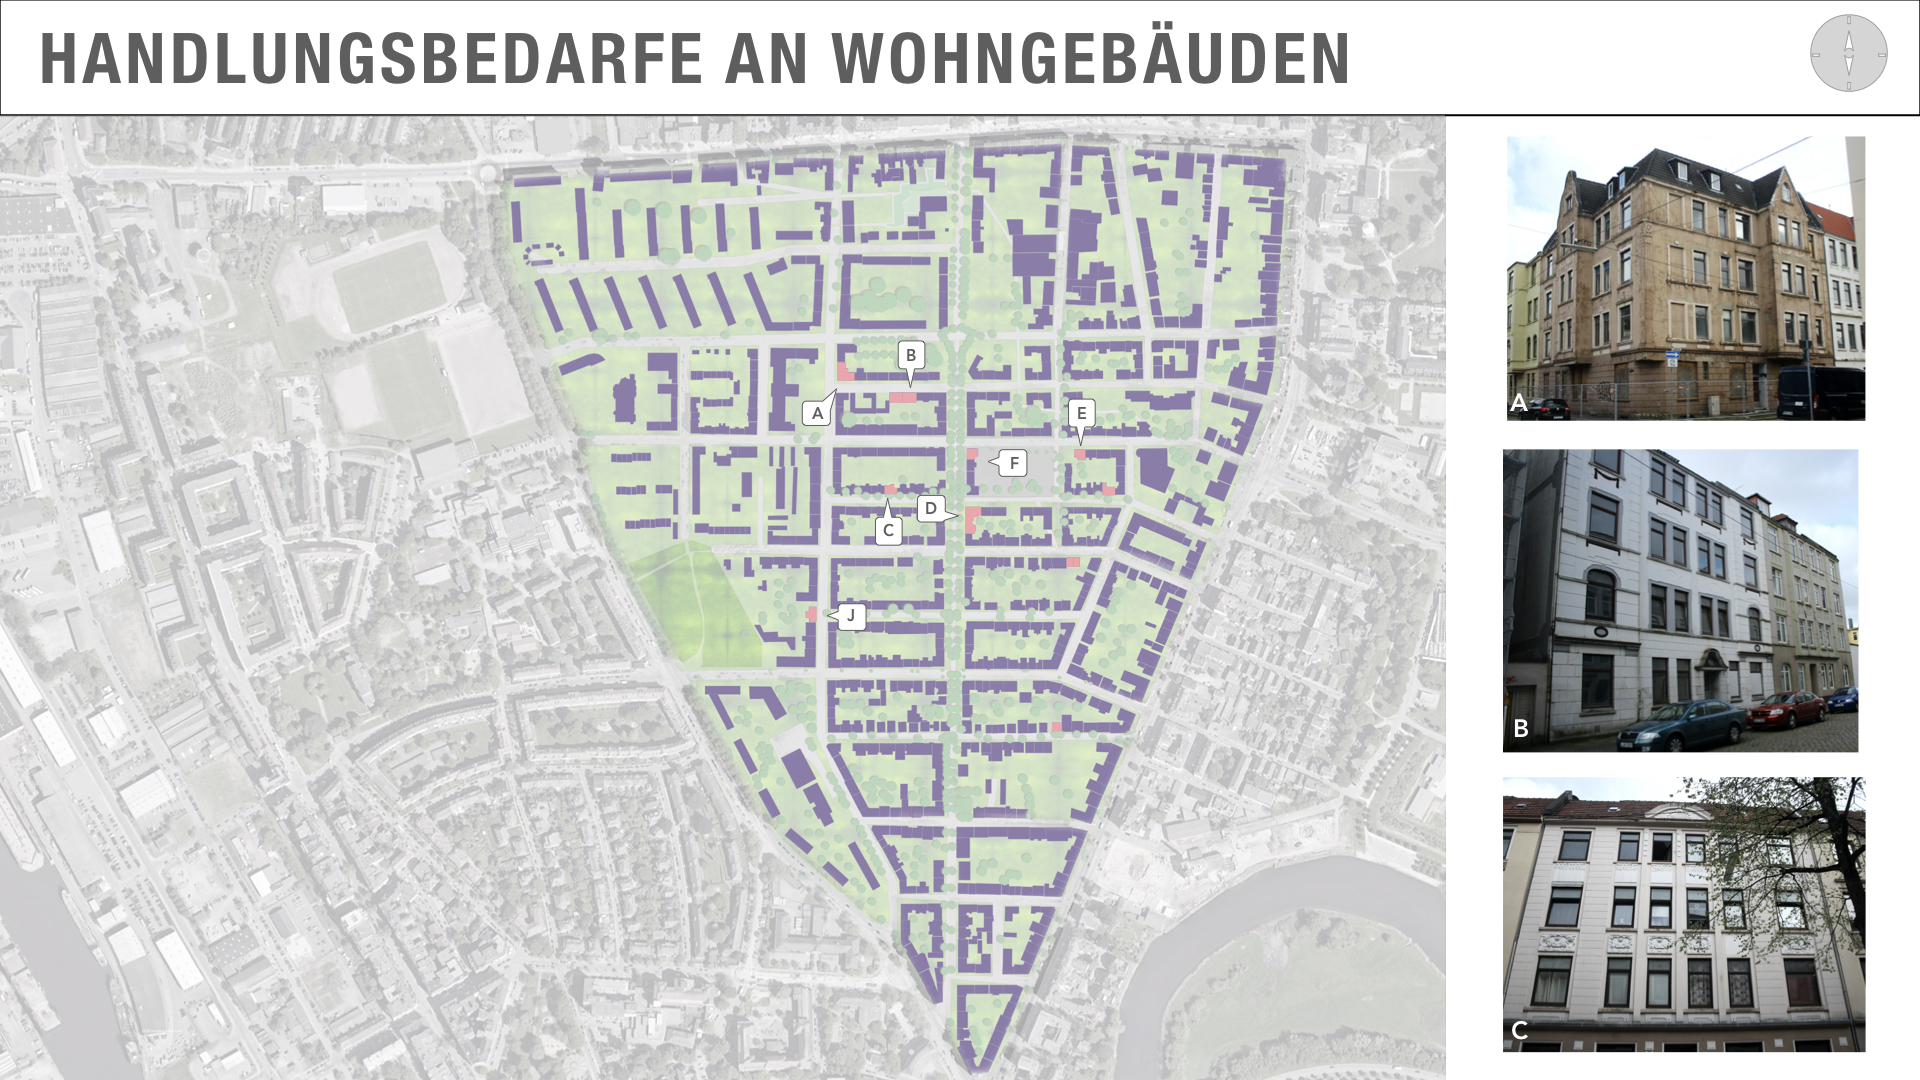
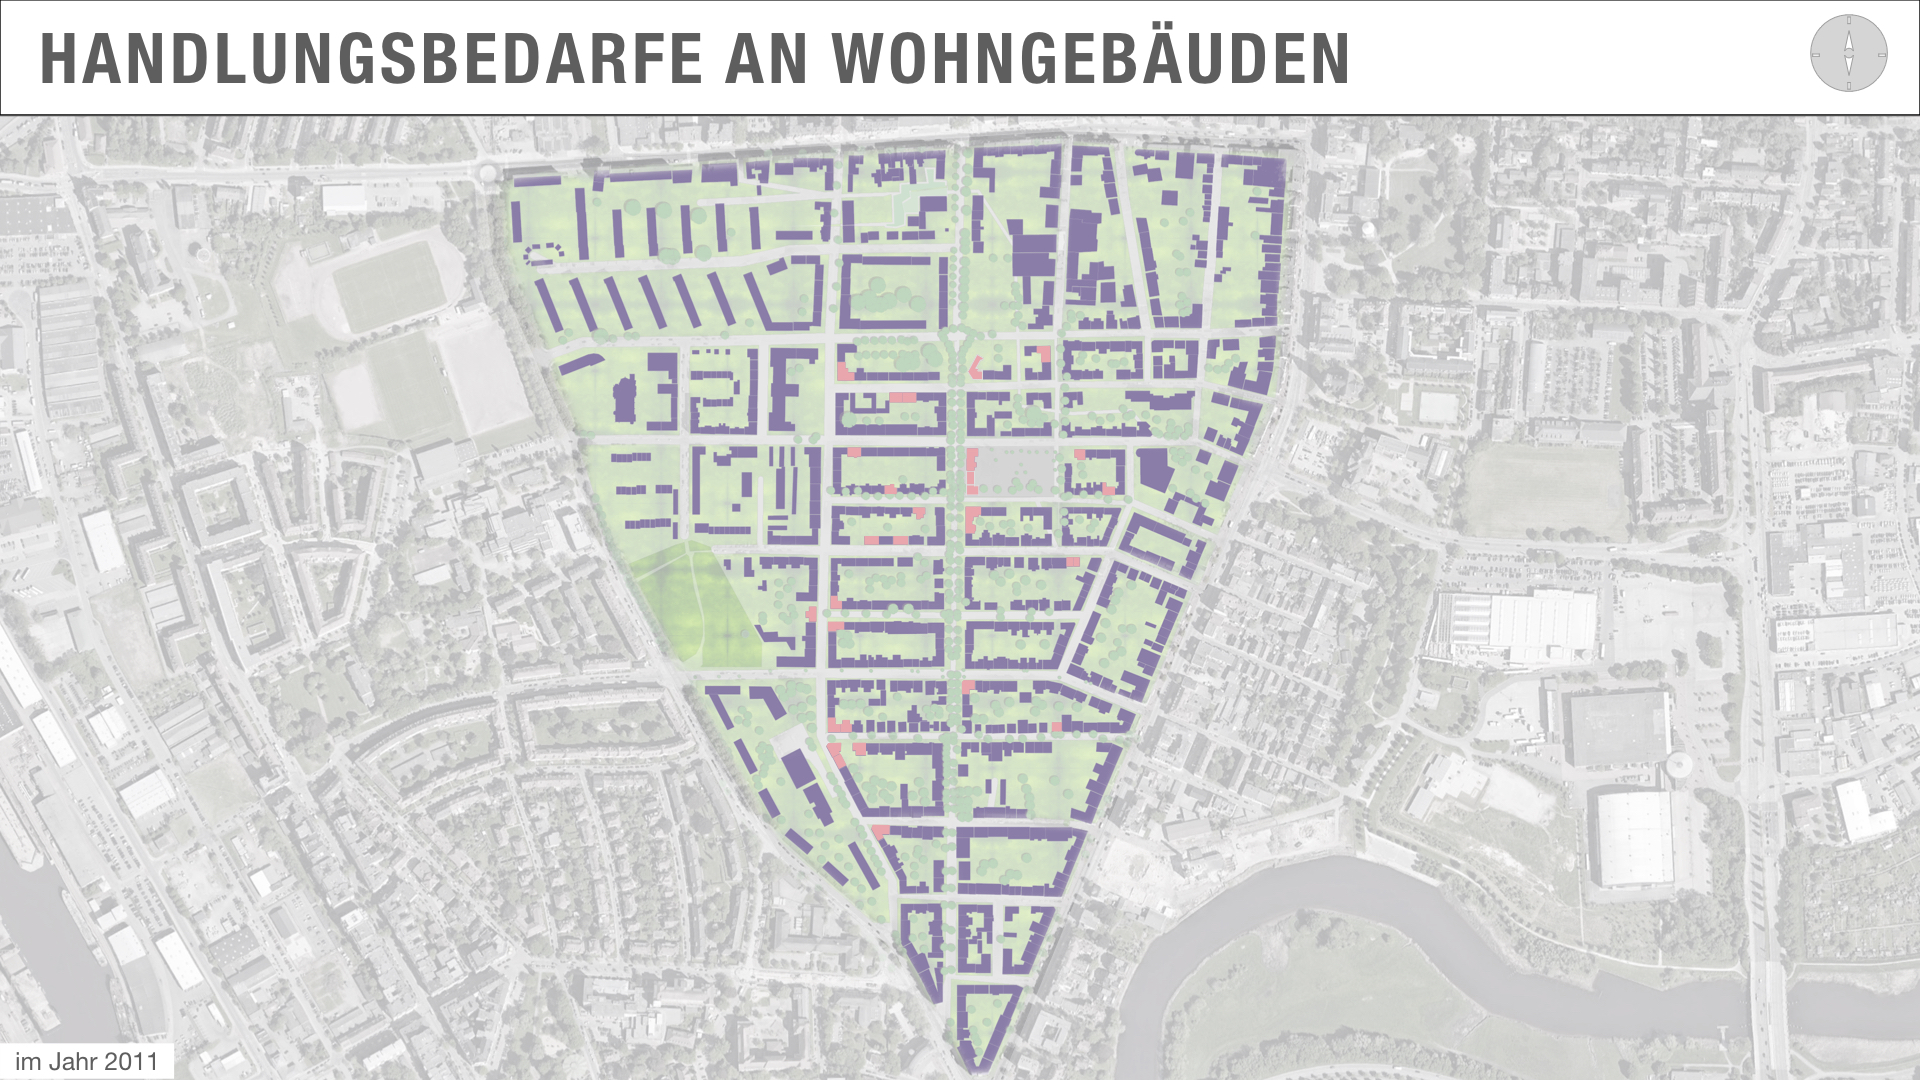
Analyse inhalte komplett

diff --git a/src/pages/Analyse.js b/src/pages/Analyse.js
@@ -5,6 +5,16 @@ import {
     AnalyseVerortungStadt,
     AnalyseWasWoIst,
     AnalyseBestandsfotos,
+    AnalyseHandlungsbedarfe_1,
+    AnalyseHandlungsbedarfe_2,
+    AnalyseHandlungsbedarfe_3,
+    AnalyseHandlungsbedarfe_4,
+    AnalyseSwot,
+    AnalyseThemenfelder_1,
+    AnalyseThemenfelder_2,
+    AnalyseFlaechennutzung,
+    AnalyseLuftbild,
+    AnalyseLuftbildCollage,
 } from '../assets';
 
 export default function Analyse() {
@@ -84,11 +94,32 @@ export default function Analyse() {
                 </article>
                 <hr />
                 {/* LUFTBILD & LUFTBILD COLLAGE */}
-                <article>{/* <img src={AnalyseVerortung} alt='' /> */}</article>
+                <article>
+                    <img src={AnalyseLuftbild} alt='' />
+                    <img src={AnalyseLuftbildCollage} alt='' />
+                    <p>
+                        Ein Blick von oben auf das Quartier leistet ebenso
+                        wichtige Informationen. Ziemlich früh wurde uns so klar,
+                        dass die meisten Grünflächen auf kurzgehaltene
+                        Rasenflächen beschränkt sind. Zudem sind die etlichen
+                        schwarzen, flachen Dachflächen für uns geradezu ein
+                        Alarmsignal gewesen.
+                    </p>
+                </article>
                 {/* FLÄCHENNUTZUNGSPLAN */}
                 <article>
-                    {/* <img src={AnalyseVerortung} alt='' /> */}
-                    <p>Zahlen und Fakten</p>
+                    <img src={AnalyseFlaechennutzung} alt='' />
+                    <p>
+                        Im <strong>Flächennutzungsplan</strong> wird festgelegt,
+                        welche Nutzungen in bestimmten Arealen zulässig sein
+                        sollen. Auffällig ist, dass das Goethequartier fast
+                        ausschließlich von Wohnbebauung geprägt ist. Lediglich
+                        der Rand an der Hafenstraße sowie ein großer Streifen an
+                        der Rickmersstraße beherbergen vielfältige
+                        Einzelhandelsgeschäfte. Wir dürfen an dieser Stelle der
+                        Analyse schon einmal vorwegnehmen, dass genau hier eine
+                        der Schwächen des Quartiers sichtbar wird...
+                    </p>
                 </article>
                 <hr />
                 {/* WAS WO IST */}
@@ -115,7 +146,69 @@ export default function Analyse() {
                         schwach bis fehlend zu bewerten. Eine Anpassung des
                         Flächennutzungsplanes haben wir inhaltlich nicht weiter
                         ausgearbeitet, muss aber im Hintergrund mit bedacht
-                        werdenWas wo ist
+                        werden.
+                    </p>
+                </article>
+                <hr />
+                {/* HANDLUNGSBEDARFE */}
+                <article>
+                    <img src={AnalyseHandlungsbedarfe_1} alt='' />
+                    <img src={AnalyseHandlungsbedarfe_2} alt='' />
+                    <img src={AnalyseHandlungsbedarfe_3} alt='' />
+                    <img src={AnalyseHandlungsbedarfe_4} alt='' />
+                    <p>
+                        Der Verfall der historischen Gründerzeitbebauung ist
+                        schon seit vielen Jahren Thema, weswegen man sich vor
+                        ein paar Jahren mit dem Stadtplanungsamt auf eine
+                        sogenannte Handlungsbedarfskarte geeinigt hat, die der
+                        Dringlichkeit nach Gebäude und ihre Handlungsbedarfe
+                        kategorisiert. Das Vorkaufsortsgesetz erweiterte die
+                        rechtliche Handhabe, um verfallende „Schrottimmobilien“
+                        zu retten und in die richtigen Hände zu geben. Uns ist
+                        in unserer Analysephase Anfang 2021 aufgefallen, dass
+                        glücklicherweise bereits ein großer Teil dieser Gebäude
+                        gerettet und saniert worden ist. Offensichtlich hat man
+                        den Wert und das Potential der Bauten erkannt, darauf
+                        kann man aufbauen!
+                    </p>
+                </article>
+                <hr />
+                {/* SWOT ANALYSE */}
+                <article>
+                    <img src={AnalyseSwot} alt='' />
+                    <p>
+                        Stärken – Schwächen – Potentiale – Risiken In diesen
+                        Kategorien lässt sich strukturieren und ordnen, was die
+                        Entwicklung des Quartiers ausmacht und ausmachen könnte.
+                        Dabei entscheidet die Quantität nie über die Qualität
+                        von Faktoren. Die Menge an Potentialen gibt bereits
+                        einen Hinweis darauf, was alles möglich wäre...
+                    </p>
+                </article>
+                <hr />
+                {/* THEMENFELDER */}
+                <article>
+                    <img src={AnalyseThemenfelder_1} alt='' />
+                    <img src={AnalyseThemenfelder_2} alt='' />
+                    <p>
+                        Stadt- bzw. Quartiersentwicklung ist dermaßen
+                        vielfältig, komplex und individuell, dass wir erst
+                        einmal Ordnung in die Menge der möglichen Themen für das
+                        Goethequartier gebracht haben. Zunächst gab es eine
+                        Sammlung von prinzipiell möglichen Themenfeldern für
+                        eine Quartiersentwicklung. Durch verschiedene
+                        Analyse-Verfahren wie Bewohner-Befragungen, eine
+                        Bestandsaufnahme vor Ort oder Interviews mit Akteuren
+                        aus dem Quartier filterten wir die relevanten Themen für
+                        unsere Schwerpunktsetzung. Durch Recherche und
+                        anschließendes Brainstorming gewannen wir eine Übersicht
+                        von Themen und konkreten Ideen, die das Quartier in der
+                        Entwicklung stärken könnten. Nicht alle Ideen konnten im
+                        zeitlich beschränkten Rahmen der Masterthesis umgesetzt
+                        bzw. visualisiert werden. Wir sehen diese Übersicht auch
+                        als eine Anregung für das Weitermachen. Für Menschen,
+                        die sich ebenfalls für das Quartier begeistern. Ebenso
+                        kann diese Liste immer weiter fortgeschrieben werden
                     </p>
                 </article>
                 <hr />

diff --git a/src/assets/index.js b/src/assets/index.js
@@ -43,6 +43,16 @@ import AnalyseZahlenFakten from './analyse/fakten-und-zahlen.jpeg';
 import AnalyseVerortungStadt from './analyse/verortung-in-stadt.jpeg';
 import AnalyseWasWoIst from './analyse/was-wo-ist.jpeg';
 import AnalyseBestandsfotos from './analyse/bestandsfotos.jpeg';
+import AnalyseHandlungsbedarfe_1 from './analyse/handlungsbedarfe-1.jpeg';
+import AnalyseHandlungsbedarfe_2 from './analyse/handlungsbedarfe-2.jpeg';
+import AnalyseHandlungsbedarfe_3 from './analyse/handlungsbedarfe-3.jpeg';
+import AnalyseHandlungsbedarfe_4 from './analyse/handlungsbedarfe-4.jpeg';
+import AnalyseSwot from './analyse/swot-analyse.jpeg';
+import AnalyseThemenfelder_1 from './analyse/themenfelder-1.jpeg';
+import AnalyseThemenfelder_2 from './analyse/themenfelder-2.jpeg';
+import AnalyseFlaechennutzung from './analyse/flaechennutzungsplan.jpeg';
+import AnalyseLuftbild from './analyse/luftbild.jpeg';
+import AnalyseLuftbildCollage from './analyse/luftbild-collage.jpeg';
 
 export {
     MapDefault,
@@ -89,4 +99,14 @@ export {
     AnalyseVerortungStadt,
     AnalyseWasWoIst,
     AnalyseBestandsfotos,
+    AnalyseHandlungsbedarfe_1,
+    AnalyseHandlungsbedarfe_2,
+    AnalyseHandlungsbedarfe_3,
+    AnalyseHandlungsbedarfe_4,
+    AnalyseSwot,
+    AnalyseThemenfelder_1,
+    AnalyseThemenfelder_2,
+    AnalyseFlaechennutzung,
+    AnalyseLuftbild,
+    AnalyseLuftbildCollage,
 };

diff --git a/src/index.css b/src/index.css
@@ -489,7 +489,7 @@ nav ul > li > a {
 .details-flex-col img {
     max-width: 100%;
     height: 100%;
-    object-fit: fill;
+    object-fit: contain;
 }
 .details-flex-col h3 {
     padding-bottom: 0.5rem;
@@ -718,12 +718,17 @@ section.analyse article.verortung p {
         font-size: small;
     }
 }
-@media screen and (max-width: 1160px) {
+@media screen and (max-width: 1500px) {
+    section.analyse article.verortung p {
+        font-size: small;
+    }
+}
+@media screen and (max-width: 1220px) {
     section.analyse {
         width: 85vw;
     }
     section.analyse article.verortung p {
-        font-size: x-small;
+        font-size: smaller;
     }
 }
 /*
